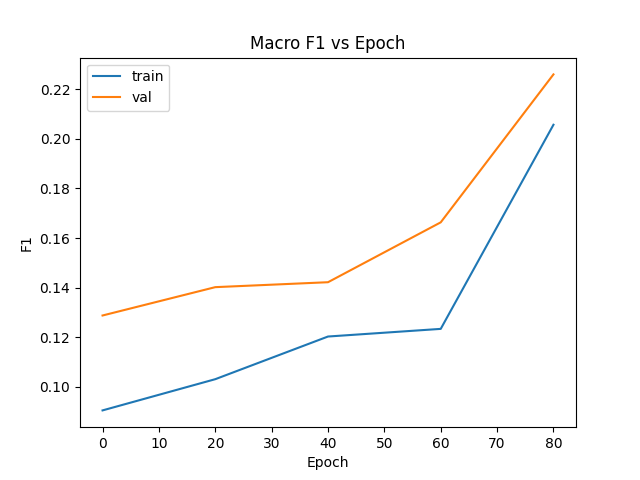
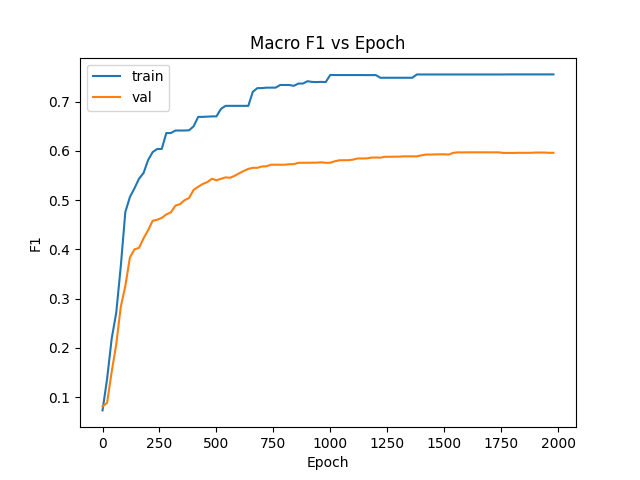
Updated Code and Plots

diff --git a/run.py b/run.py
@@ -2,7 +2,8 @@
 import torch
 from data_utils import load_data
 import argparse
-from model import GNN
+from model import GNN           # TODO check this
+# from model_message_passing import GNN
 import sklearn.metrics as metrics
 import matplotlib.pyplot as plt
 
@@ -21,7 +22,14 @@ print(f'Number of graphs: {len(dataset)}')
 print(f'Number of features: {dataset.num_features}')
 print(f'Number of classes: {dataset.num_classes}')
 
-data = dataset[0]  # Get the first graph object.
+
+gpu=1
+device = torch.device(f'cuda:{gpu}' if torch.cuda.is_available() else 'cpu')
+print(device)
+
+# device='cpu'
+
+data = dataset[0].to(device)  # Get the first graph object.
 print()
 print(data)
 print('===========================================================================================================')
@@ -32,10 +40,11 @@ print(f'Number of edges: {data.num_edges}')
 
 model_folder = './models/'+args.dataset        # TODO maybe remove this while submitting
 
-device = torch.device('cuda' if torch.cuda.is_available() else 'cpu')
-model = GNN(hidden_channels=32,num_features=dataset.num_features,num_layers=args.k,num_classes=dataset.num_classes).to(device)   # Note change num_features when needed
 
-optimizer = torch.optim.Adam(model.parameters(), lr=5e-4,weight_decay=5e-6)
+
+model = GNN(hidden_channels=512,num_features=dataset.num_features,num_layers=args.k,num_classes=dataset.num_classes).to(device)   # Note change num_features when needed
+
+optimizer = torch.optim.Adam(model.parameters(), lr=5e-5,weight_decay=5e-1)
 criterion = torch.nn.CrossEntropyLoss()
 
 def getMacroF1(y_true, y_pred):
@@ -50,7 +59,7 @@ loss_val_list = []
 def train(epoch):
     model.train()
     optimizer.zero_grad()  # Clear gradients.
-    out = model(data.x, data.edge_index)  # Perform a single forward pass.
+    out = model(data.x, data.edge_index, device)  # Perform a single forward pass.
     loss = criterion(out[data.train_mask], data.y[data.train_mask])  # Compute the loss solely based on the training nodes.
     if epoch%20 == 0:
         f1_train = getMacroF1(data.y[data.train_mask].cpu().numpy(), out[data.train_mask].argmax(dim=1).cpu().numpy())
@@ -63,7 +72,7 @@ def train(epoch):
 best_val_f1 = -1
 def val(epoch):
     model.eval()
-    out = model(data.x, data.edge_index)
+    out = model(data.x, data.edge_index, device)
     val_loss = criterion(out[data.val_mask], data.y[data.val_mask])
     f1_val = getMacroF1(data.y[data.val_mask].cpu().numpy(), out[data.val_mask].argmax(dim=1).cpu().numpy())
     global best_val_f1
@@ -75,11 +84,11 @@ def val(epoch):
     pred = out.argmax(dim=1)  # Use the class with highest probability.
     val_correct = pred[data.val_mask] == data.y[data.val_mask]  # Check against ground-truth labels.
     val_acc = int(val_correct.sum()) / int(data.val_mask.sum())  # Derive ratio of correct predictions.
-    return val_loss, val_acc
+    return val_loss, val_acc, f1_val
 
 def test():
     model.eval()
-    out = model(data.x, data.edge_index)
+    out = model(data.x, data.edge_index, device)
     f1_test = getMacroF1(data.y[data.test_mask].cpu().numpy(), out[data.test_mask].argmax(dim=1).cpu().numpy())
     pred = out.argmax(dim=1)  # Use the class with highest probability.
     test_correct = pred[data.test_mask] == data.y[data.test_mask]  # Check against ground-truth labels.
@@ -111,17 +120,17 @@ def plot():
     plt.savefig(f"2019CS10394-train-val-{args.dataset}-{args.k}-loss.png")
     plt.close()
 
-num_epochs = 100
+num_epochs = 2000
 best_val_loss = -1
 bestModel = None
 for epoch in range(num_epochs):
     loss = train(epoch)
-    val_loss, val_acc = val(epoch)
+    val_loss, val_acc, f1_val = val(epoch)
     if best_val_loss == -1 or val_loss < best_val_loss:
         best_val_loss = val_loss
         bestModel = model
         torch.save(model.state_dict(), model_folder+'/bestval.pth')
-    print(f'Epoch: {epoch:03d}, Loss: {loss:.4f}, Val Loss: {val_loss:.4f}, Val Acc: {val_acc:.4f}')
+    print(f'Epoch: {epoch:03d}, Loss: {loss:.4f}, Val Loss: {val_loss:.4f}, Val Acc: {val_acc:.4f}, Val F1: {f1_val:.4f}')
 
 best_test_f1 = -1
 with torch.no_grad():

diff --git a/run_experiment.py b/run_experiment.py
@@ -23,7 +23,13 @@ print(f'Number of graphs: {len(dataset)}')
 print(f'Number of features: {dataset.num_features}')
 print(f'Number of classes: {dataset.num_classes}')
 
-data = dataset[0]  # Get the first graph object.
+gpu=1
+device = torch.device(f'cuda:{gpu}' if torch.cuda.is_available() else 'cpu')
+print(device)
+
+# device='cpu'
+
+data = dataset[0].to(device)  # Get the first graph object.
 print()
 print(data)
 print('===========================================================================================================')
@@ -34,12 +40,11 @@ print(f'Number of edges: {data.num_edges}')
 
 model_folder = './models/'+args.dataset        # TODO maybe remove this while submitting
 
-device = torch.device('cuda' if torch.cuda.is_available() else 'cpu')
 
 if args.model_type == 'linear':
-    model = Lin(hidden_channels=32,num_features=dataset.num_features,num_layers=args.k,num_classes=dataset.num_classes).to(device)   # Note change num_features when needed
+    model = Lin(hidden_channels=512,num_features=dataset.num_features,num_layers=args.k,num_classes=dataset.num_classes).to(device)   # Note change num_features when needed
 else:
-    model = GNN(hidden_channels=32,num_features=dataset.num_features,num_layers=args.k,num_classes=dataset.num_classes).to(device)
+    model = GNN(hidden_channels=512,num_features=dataset.num_features,num_layers=args.k,num_classes=dataset.num_classes).to(device)
 
 optimizer = torch.optim.Adam(model.parameters(), lr=5e-4,weight_decay=5e-6)
 criterion = torch.nn.CrossEntropyLoss()
@@ -56,7 +61,7 @@ loss_val_list = []
 def train(epoch):
     model.train()
     optimizer.zero_grad()  # Clear gradients.
-    out = model(data.x, data.edge_index)  # Perform a single forward pass.
+    out = model(data.x, data.edge_index, device)  # Perform a single forward pass.
     loss = criterion(out[data.train_mask], data.y[data.train_mask])  # Compute the loss solely based on the training nodes.
     if epoch%20 == 0:
         f1_train = getMacroF1(data.y[data.train_mask].cpu().numpy(), out[data.train_mask].argmax(dim=1).cpu().numpy())
@@ -69,7 +74,7 @@ def train(epoch):
 best_val_f1 = -1
 def val(epoch):
     model.eval()
-    out = model(data.x, data.edge_index)
+    out = model(data.x, data.edge_index, device)
     val_loss = criterion(out[data.val_mask], data.y[data.val_mask])
     f1_val = getMacroF1(data.y[data.val_mask].cpu().numpy(), out[data.val_mask].argmax(dim=1).cpu().numpy())
     global best_val_f1
@@ -85,7 +90,7 @@ def val(epoch):
 
 def test():
     model.eval()
-    out = model(data.x, data.edge_index)
+    out = model(data.x, data.edge_index, device)
     f1_test = getMacroF1(data.y[data.test_mask].cpu().numpy(), out[data.test_mask].argmax(dim=1).cpu().numpy())
     pred = out.argmax(dim=1)  # Use the class with highest probability.
     test_correct = pred[data.test_mask] == data.y[data.test_mask]  # Check against ground-truth labels.
@@ -117,7 +122,7 @@ def plot():
     plt.savefig(f"./topology_generated/Loss_{args.model_type}_{args.k}.png")
     plt.close()
 
-num_epochs = 5
+num_epochs = 500
 best_val_loss = -1
 bestModel = None
 for epoch in range(num_epochs):
@@ -136,6 +141,13 @@ with torch.no_grad():
     print(f'Test Accuracy: {test_acc:.4f}')
 
 plot()
+
+# write in a file
+with open(f'./topology_generated/f1_results_{args.model_type}_{args.k}', 'w') as f:
+    # best test f1
+    f.write(f"{best_test_f1:.4f}\n")
+    # best val f1
+    f.write(f"{best_val_f1:.4f}")
 
 
 

diff --git a/model_message_passing.py b/model_message_passing.py
@@ -1,0 +1,66 @@
+import torch
+from torch.nn import Linear, Parameter
+from torch_geometric.nn import MessagePassing
+from torch_geometric.utils import add_self_loops
+
+class GNN(MessagePassing):
+    def __init__(self, hidden_channels, num_features, num_layers, num_classes):
+        super().__init__(aggr='add')
+
+        torch.manual_seed(1234567)
+
+
+        # for loop for multiple layers
+        self.num_layers = num_layers
+        self.linear_list = [Linear(num_features, hidden_channels, bias=False)]
+        for i in range(self.num_layers-1):
+            self.linear_list.append(Linear(hidden_channels, hidden_channels, bias=False))
+        
+        self.batch_num_list = [torch.nn.BatchNorm1d(hidden_channels,track_running_stats=False,affine=False)]
+        for i in range(self.num_layers-1):
+            self.batch_num_list.append(torch.nn.BatchNorm1d(hidden_channels,track_running_stats=False,affine=False))
+
+        self.bias_list = [Parameter(torch.Tensor(hidden_channels))]
+        for i in range(self.num_layers-1):
+            self.bias_list.append(Parameter(torch.Tensor(hidden_channels)))
+
+        self.last_linear = Linear(hidden_channels, num_classes)
+
+        self.reset_parameters()
+
+
+    def reset_parameters(self):
+
+        for i in range(self.num_layers):
+            self.linear_list[i].reset_parameters()
+        
+        for i in range(self.num_layers):
+            self.batch_num_list[i].reset_parameters()
+
+        for i in range(self.num_layers-1):
+            self.bias_list[i].data.zero_()
+
+        self.last_linear.reset_parameters()
+
+    def forward(self, x, edge_index, device):
+        # x has shape [N, features]
+        # edge_index has shape [2, E]
+
+        edge_index, _ = add_self_loops(edge_index, num_nodes=x.size(0))
+
+        for i in range(self.num_layers):
+
+            x = self.linear_list[i](x)
+
+            x = self.propagate(edge_index, x=x)
+
+            x += self.bias_list[i]
+
+            x = self.batch_num_list[i](x)
+
+            x = x.relu()  
+
+        # do final linear transformation
+        x = self.last_linear(x)          
+
+        return x

diff --git a/model_experiment.py b/model_experiment.py
@@ -20,11 +20,11 @@ class Lin(torch.nn.Module):
 
         self.last_linear = Linear(hidden_channels, num_classes)
 
-    def forward(self, x, edge_index):
+    def forward(self, x, edge_index, device):
 
         for i in range(self.num_layers):
             # do linear transformation
-            x = self.linear_list[i](x)
+            x = self.linear_list[i].to(device)(x)
             # do batch norm
             x = self.batch_num_list[i](x)
             # do relu
@@ -52,19 +52,19 @@ class GNN(torch.nn.Module):
 
         self.last_linear = Linear(hidden_channels, num_classes)
 
-    def forward(self, x, edge_index):
+    def forward(self, x, edge_index, device):
         
-        A = torch.sparse.FloatTensor(edge_index, torch.ones(edge_index.shape[1]), torch.Size([x.shape[0], x.shape[0]]))
+        A = torch.sparse.FloatTensor(edge_index, torch.ones(edge_index.shape[1]).to(device), torch.Size([x.shape[0], x.shape[0]])).to(device)
         # print(A.shape)
 
         # add self loop
-        A = A + torch.sparse.FloatTensor(torch.eye(x.shape[0]).nonzero().t(), torch.ones(x.shape[0]), torch.Size([x.shape[0], x.shape[0]]))
+        A = A + torch.sparse.FloatTensor(torch.eye(x.shape[0]).nonzero().t().to(device), torch.ones(x.shape[0]).to(device), torch.Size([x.shape[0], x.shape[0]])).to(device)
 
         for i in range(self.num_layers):
             # do gnn mean aggregation
             x = torch.spmm(A, x)            # TODO check this
             # do linear transformation
-            x = self.linear_list[i](x)
+            x = self.linear_list[i].to(device)(x)
             # do batch norm
             x = self.batch_num_list[i](x)
             # do relu

diff --git a/model.py b/model.py
@@ -20,19 +20,19 @@ class GNN(torch.nn.Module):
 
         self.last_linear = Linear(hidden_channels, num_classes)
 
-    def forward(self, x, edge_index):
+    def forward(self, x, edge_index, device):
         
-        A = torch.sparse.FloatTensor(edge_index, torch.ones(edge_index.shape[1]), torch.Size([x.shape[0], x.shape[0]]))
+        A = torch.sparse.FloatTensor(edge_index, torch.ones(edge_index.shape[1]).to(device), torch.Size([x.shape[0], x.shape[0]])).to(device)
         # print(A.shape)
 
         # add self loop
-        A = A + torch.sparse.FloatTensor(torch.eye(x.shape[0]).nonzero().t(), torch.ones(x.shape[0]), torch.Size([x.shape[0], x.shape[0]]))
+        A = A + torch.sparse.FloatTensor(torch.eye(x.shape[0]).nonzero().t().to(device), torch.ones(x.shape[0]).to(device), torch.Size([x.shape[0], x.shape[0]])).to(device)
 
         for i in range(self.num_layers):
             # do gnn mean aggregation
-            x = torch.spmm(A, x)            # TODO check this
+            x = torch.spmm(A, x).to(device)            # TODO check this
             # do linear transformation
-            x = self.linear_list[i](x)
+            x = self.linear_list[i].to(device)(x)
             # do batch norm
             x = self.batch_num_list[i](x)
             # do relu
@@ -40,5 +40,6 @@ class GNN(torch.nn.Module):
 
         # do final linear transformation
         x = self.last_linear(x)
+        # x = x.relu()       # TODO remove this
 
         return x

diff --git a/plot_f1.py b/plot_f1.py
@@ -1,0 +1,28 @@
+import matplotlib.pyplot as plt
+
+filename = './topology_generated/f1_results_'
+architectures = ['linear_3','gnn_1','gnn_2','gnn_3','gnn_4','gnn_5']
+
+f1_val_list = []
+f1_test_list = []
+
+for arch in architectures:
+    fn = filename+arch
+    with open(fn, 'r') as f:
+        f1_test_list.append(float(f.readline()))
+        f1_val_list.append(float(f.readline()))
+
+print(f1_test_list)
+print(f1_val_list)
+
+plt.clf()
+plt.plot(architectures,f1_test_list, label='test')
+plt.plot(architectures,f1_val_list, label='val')
+plt.legend()
+plt.title("Macro F1 vs Architecture")
+plt.xlabel("Architecture")
+plt.ylabel("F1")
+plt.draw()
+plt.savefig(f"./topology_generated/arch-f1.png")
+plt.close()
+
